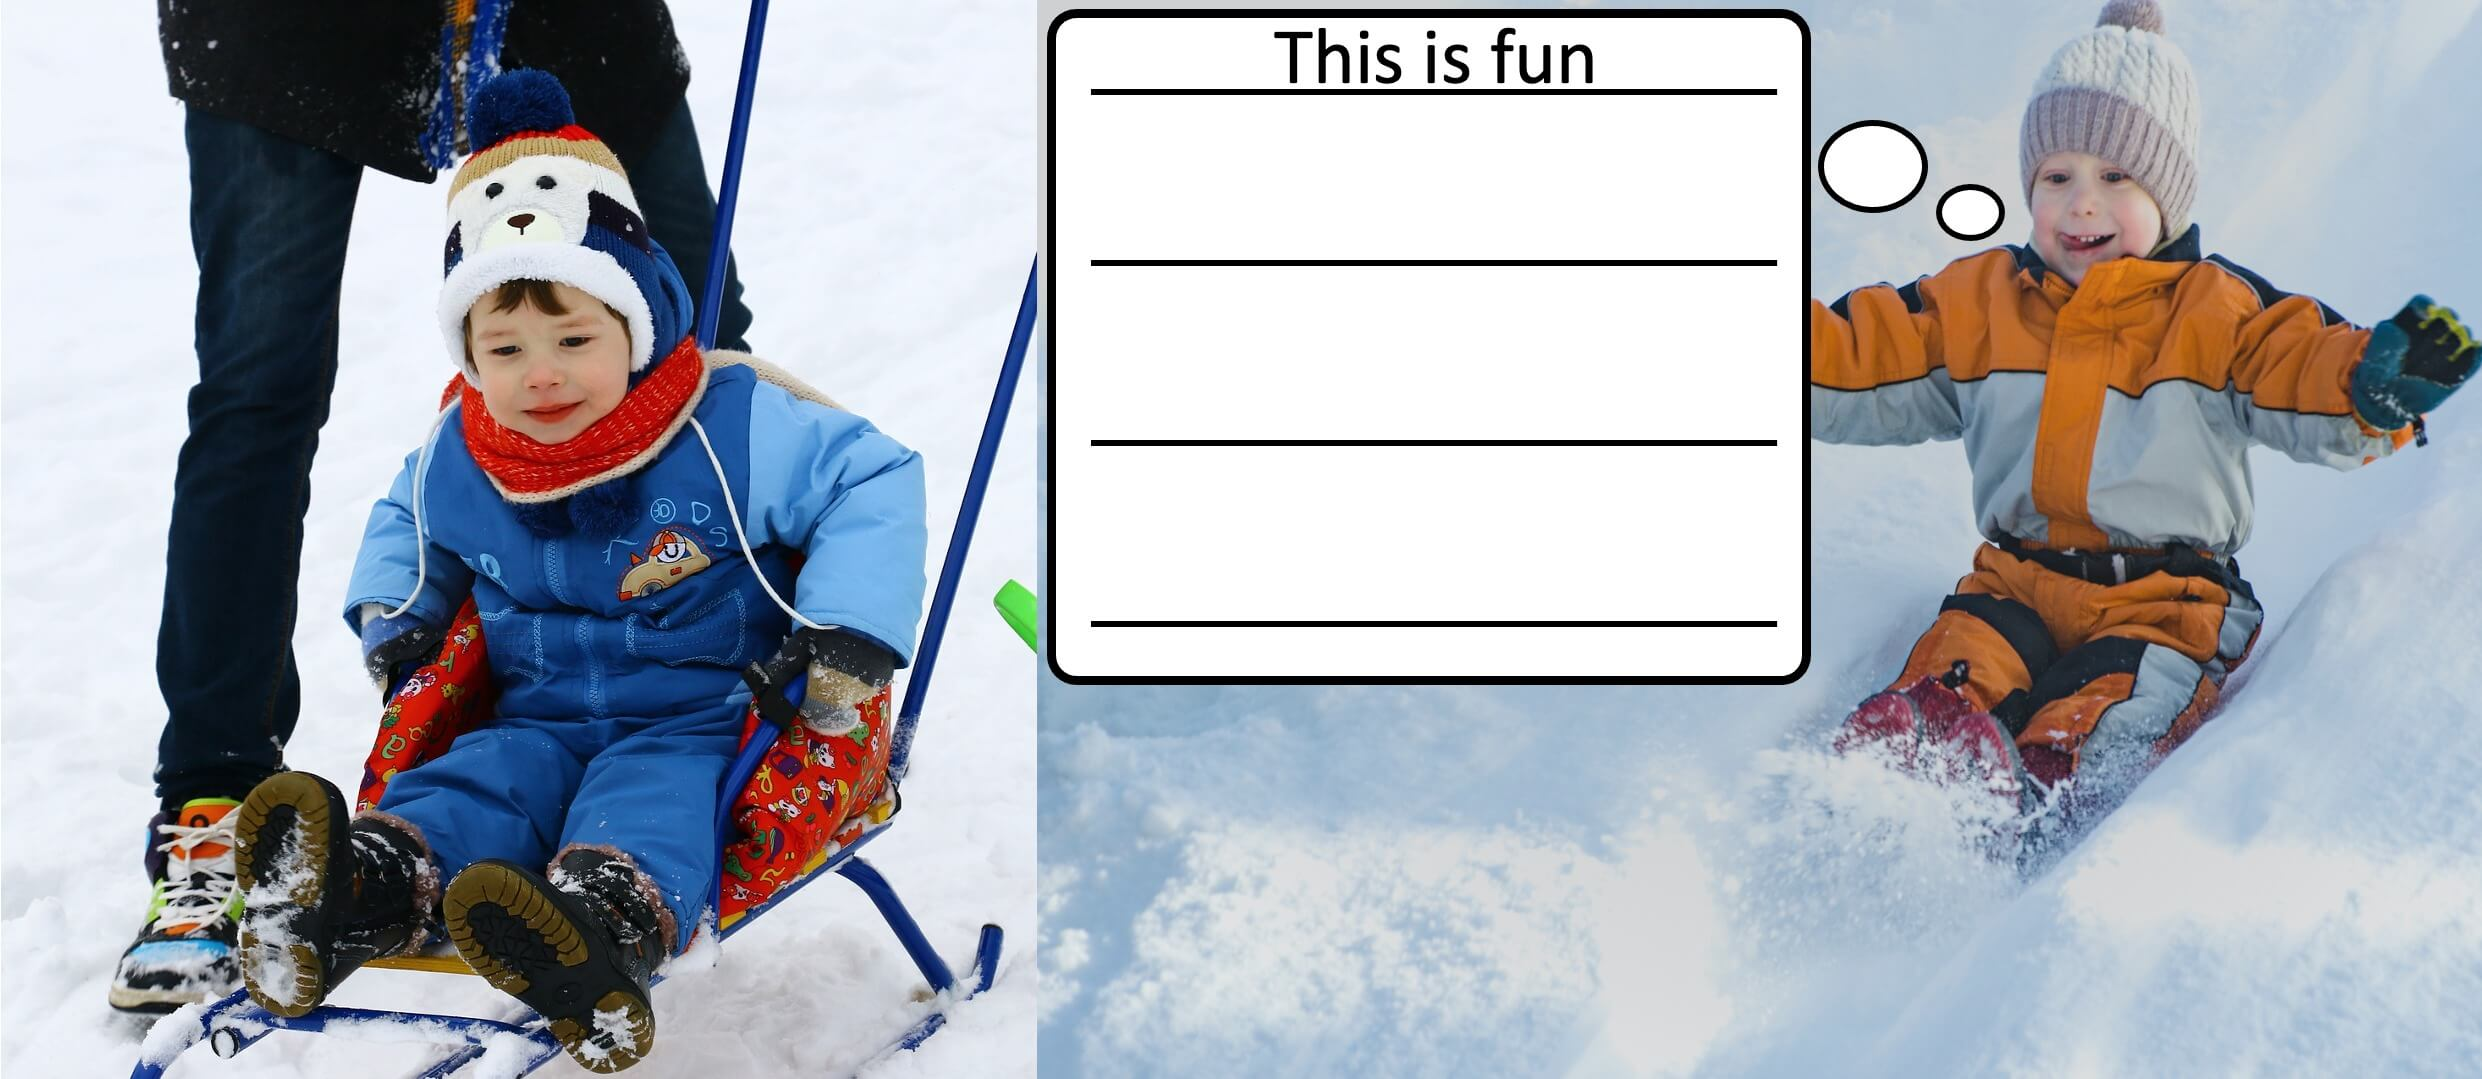
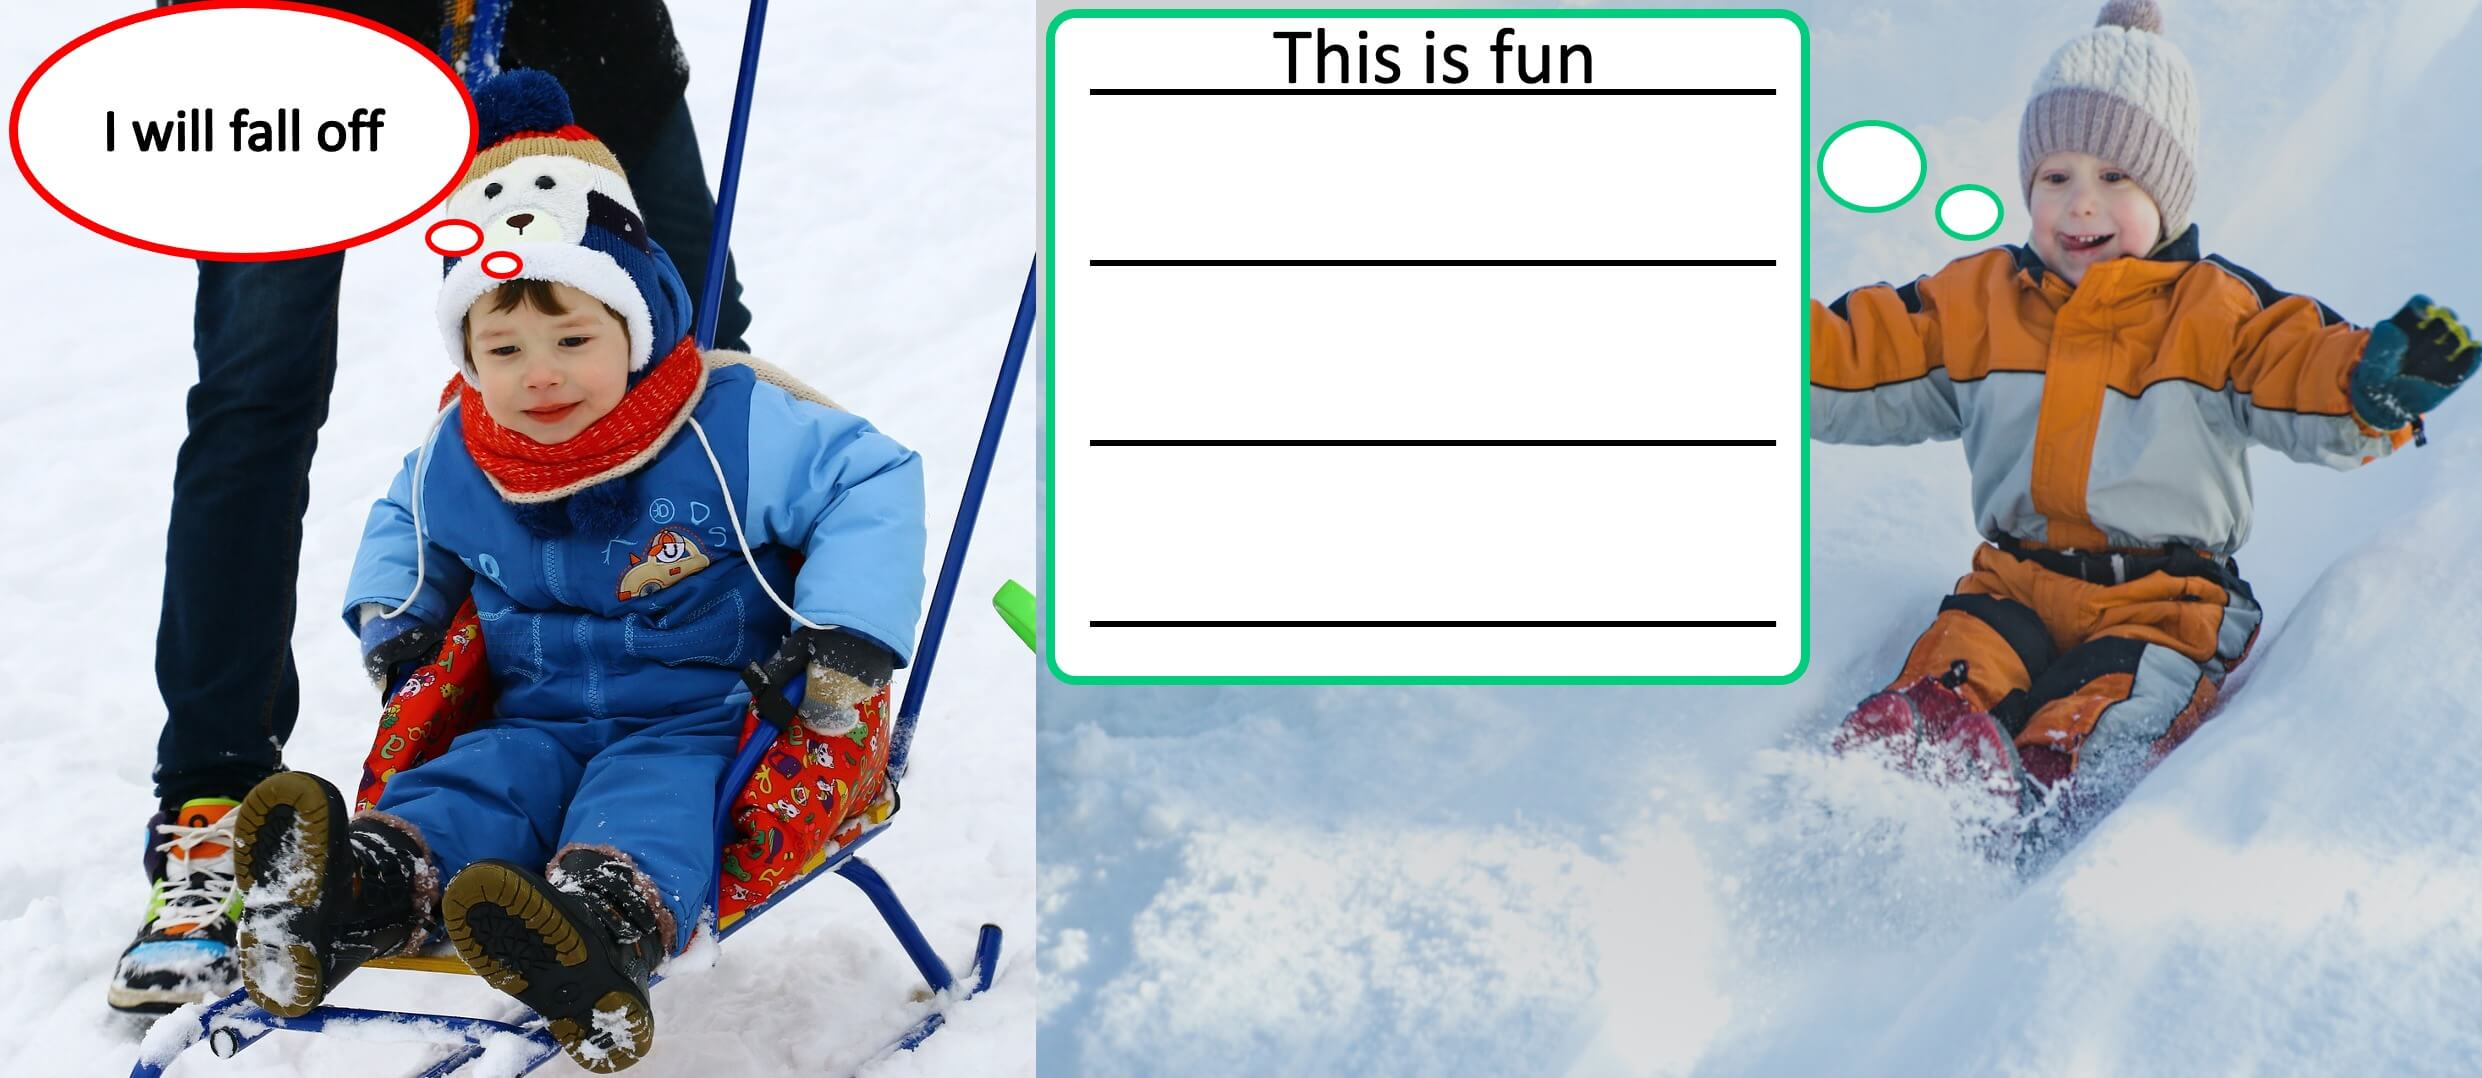
fox bubble thoughts session 5

diff --git a/src/views/Session5/Session5Page14.vue b/src/views/Session5/Session5Page14.vue
@@ -13,10 +13,10 @@ export default {
   data() {
     return {
       canvasStyle: {
-        width: 0.88,
+        width: 1,
         height: 0.8,
         isPicture: true,
-        pictureUrl: "session5/merge2-edited.jpg",
+        pictureUrl: "session5/Slide8.jpeg",
         backgroundSize: 'contain'
       },
     }
@@ -32,7 +32,7 @@ export default {
 <style scoped>
 .canvas {
   position: absolute;
-  top: 0;
-  left: 6%;
+  top: -.5%;
+  left: 0;
 }
 </style>
